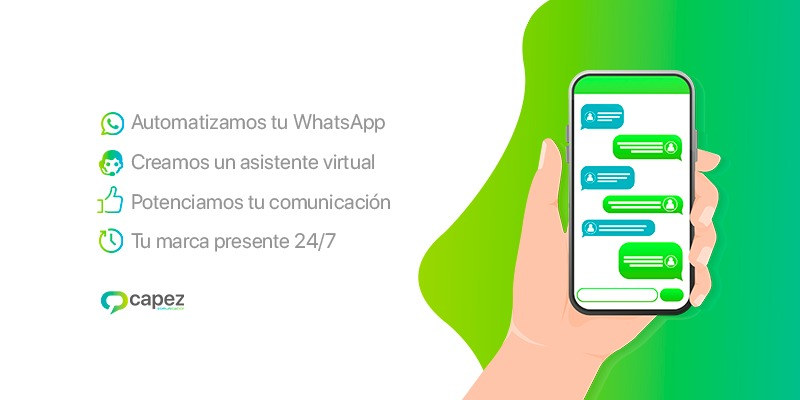
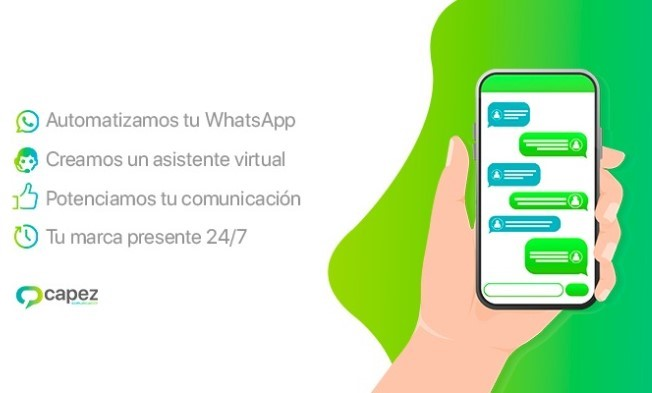
mejor

diff --git a/src/Otros/Carrusel.css b/src/Otros/Carrusel.css
@@ -3,8 +3,8 @@
     padding-top: 49.55%;
   }
   .img-slider{
-    width: 100%;
-
+    width: 100%;  
+    margin-left:8%;
   }
 
   .tipografia{
@@ -14,14 +14,10 @@
   }
 
   .img-capez{
-    width: 100%;
+    width: 90%;
+    margin-left: 5%;
   }
 
-  .texto-carrusel{
-    display: flex;
-    align-items: center;
-    margin-left: 7%;
-  }
 
 .container-multimedia{
   display: flex;
@@ -30,6 +26,7 @@
 
 .container-carrusel{
   display: flex;
+  margin-top: 2%;
 }
   
   .react-player {
@@ -69,6 +66,9 @@
     .img-slider{
       width: 100%;
       margin-left: 0;
+    }
+    .img-capez{
+      display: none;
     }
   }
 

diff --git a/src/Otros/Carrusel.js b/src/Otros/Carrusel.js
@@ -8,10 +8,10 @@ const Nosotros = () => {
 
   return (
     <div className="container-carrusel">
-      <div className="carrusel-img col-md-6">
+      <div className="carrusel-img col-md-6 pr-0">
         <img src={slider1} alt="slider" className="img-slider"></img>
       </div>
-      <div className="col-sm-12 col-md-6">
+      <div className="col-sm-12 col-md-6 pl-0">
         <img src={imgCapez} alt="capez" className="img-capez"></img>
       </div>
     </div>
